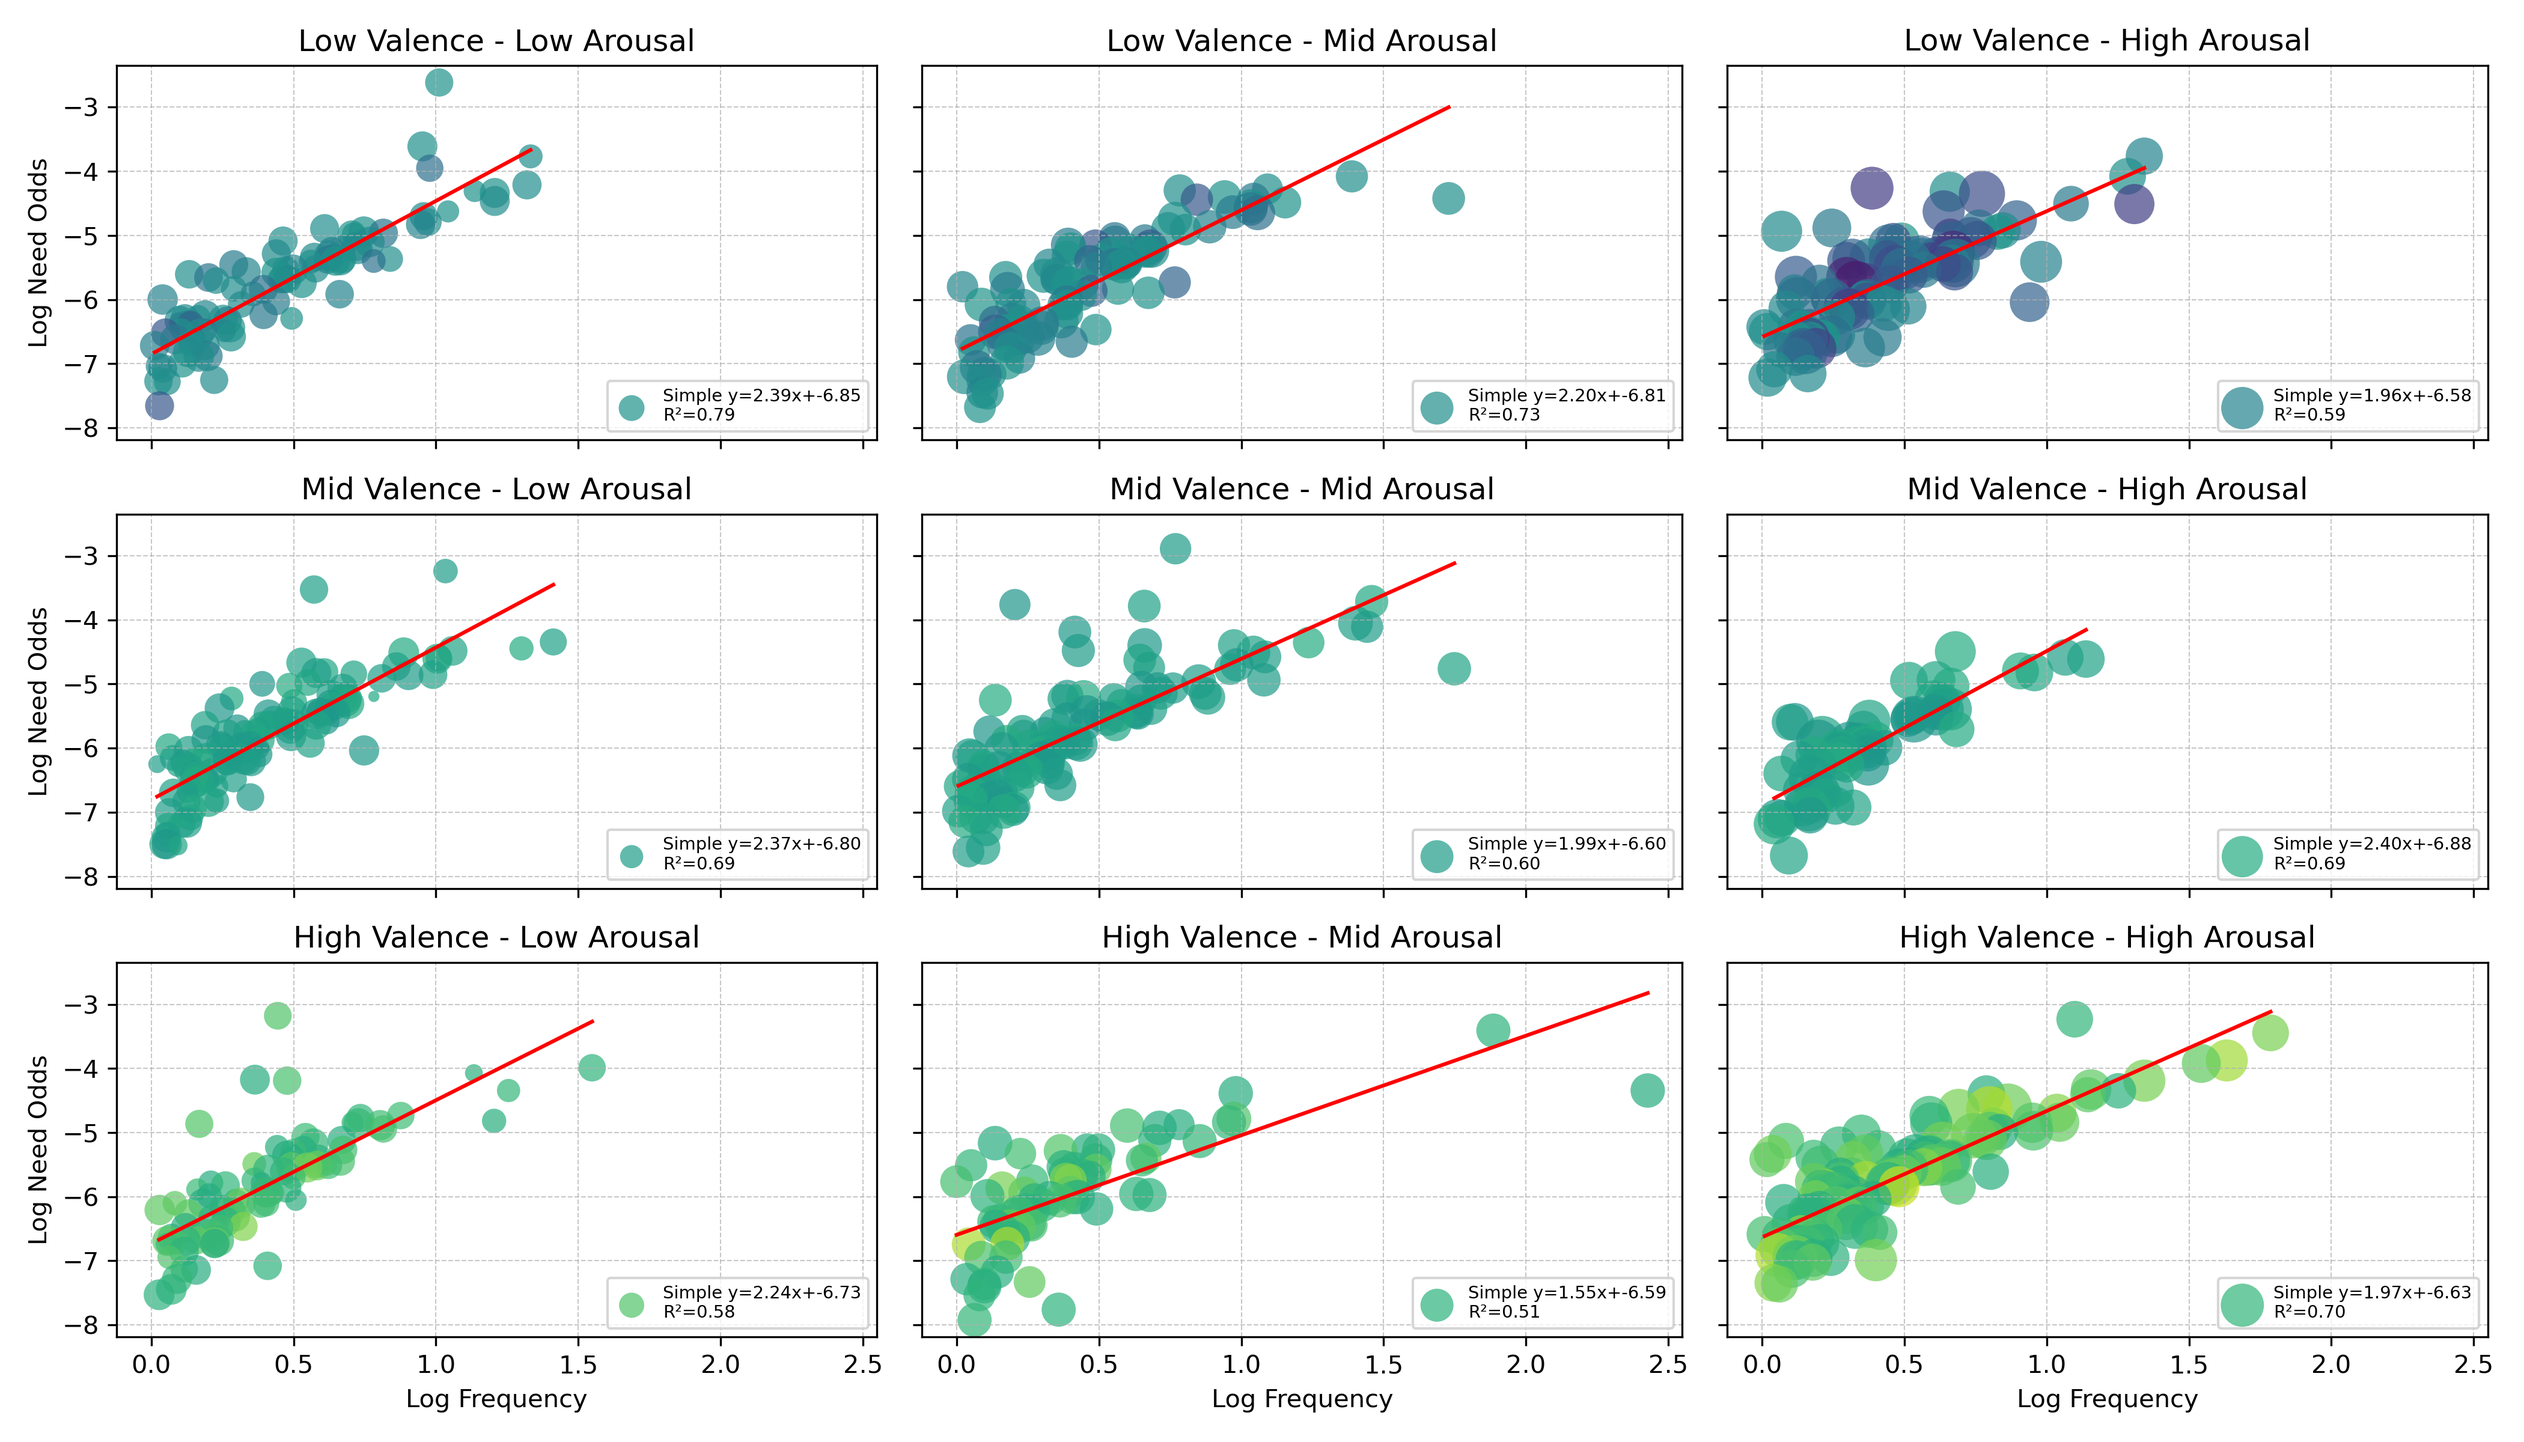
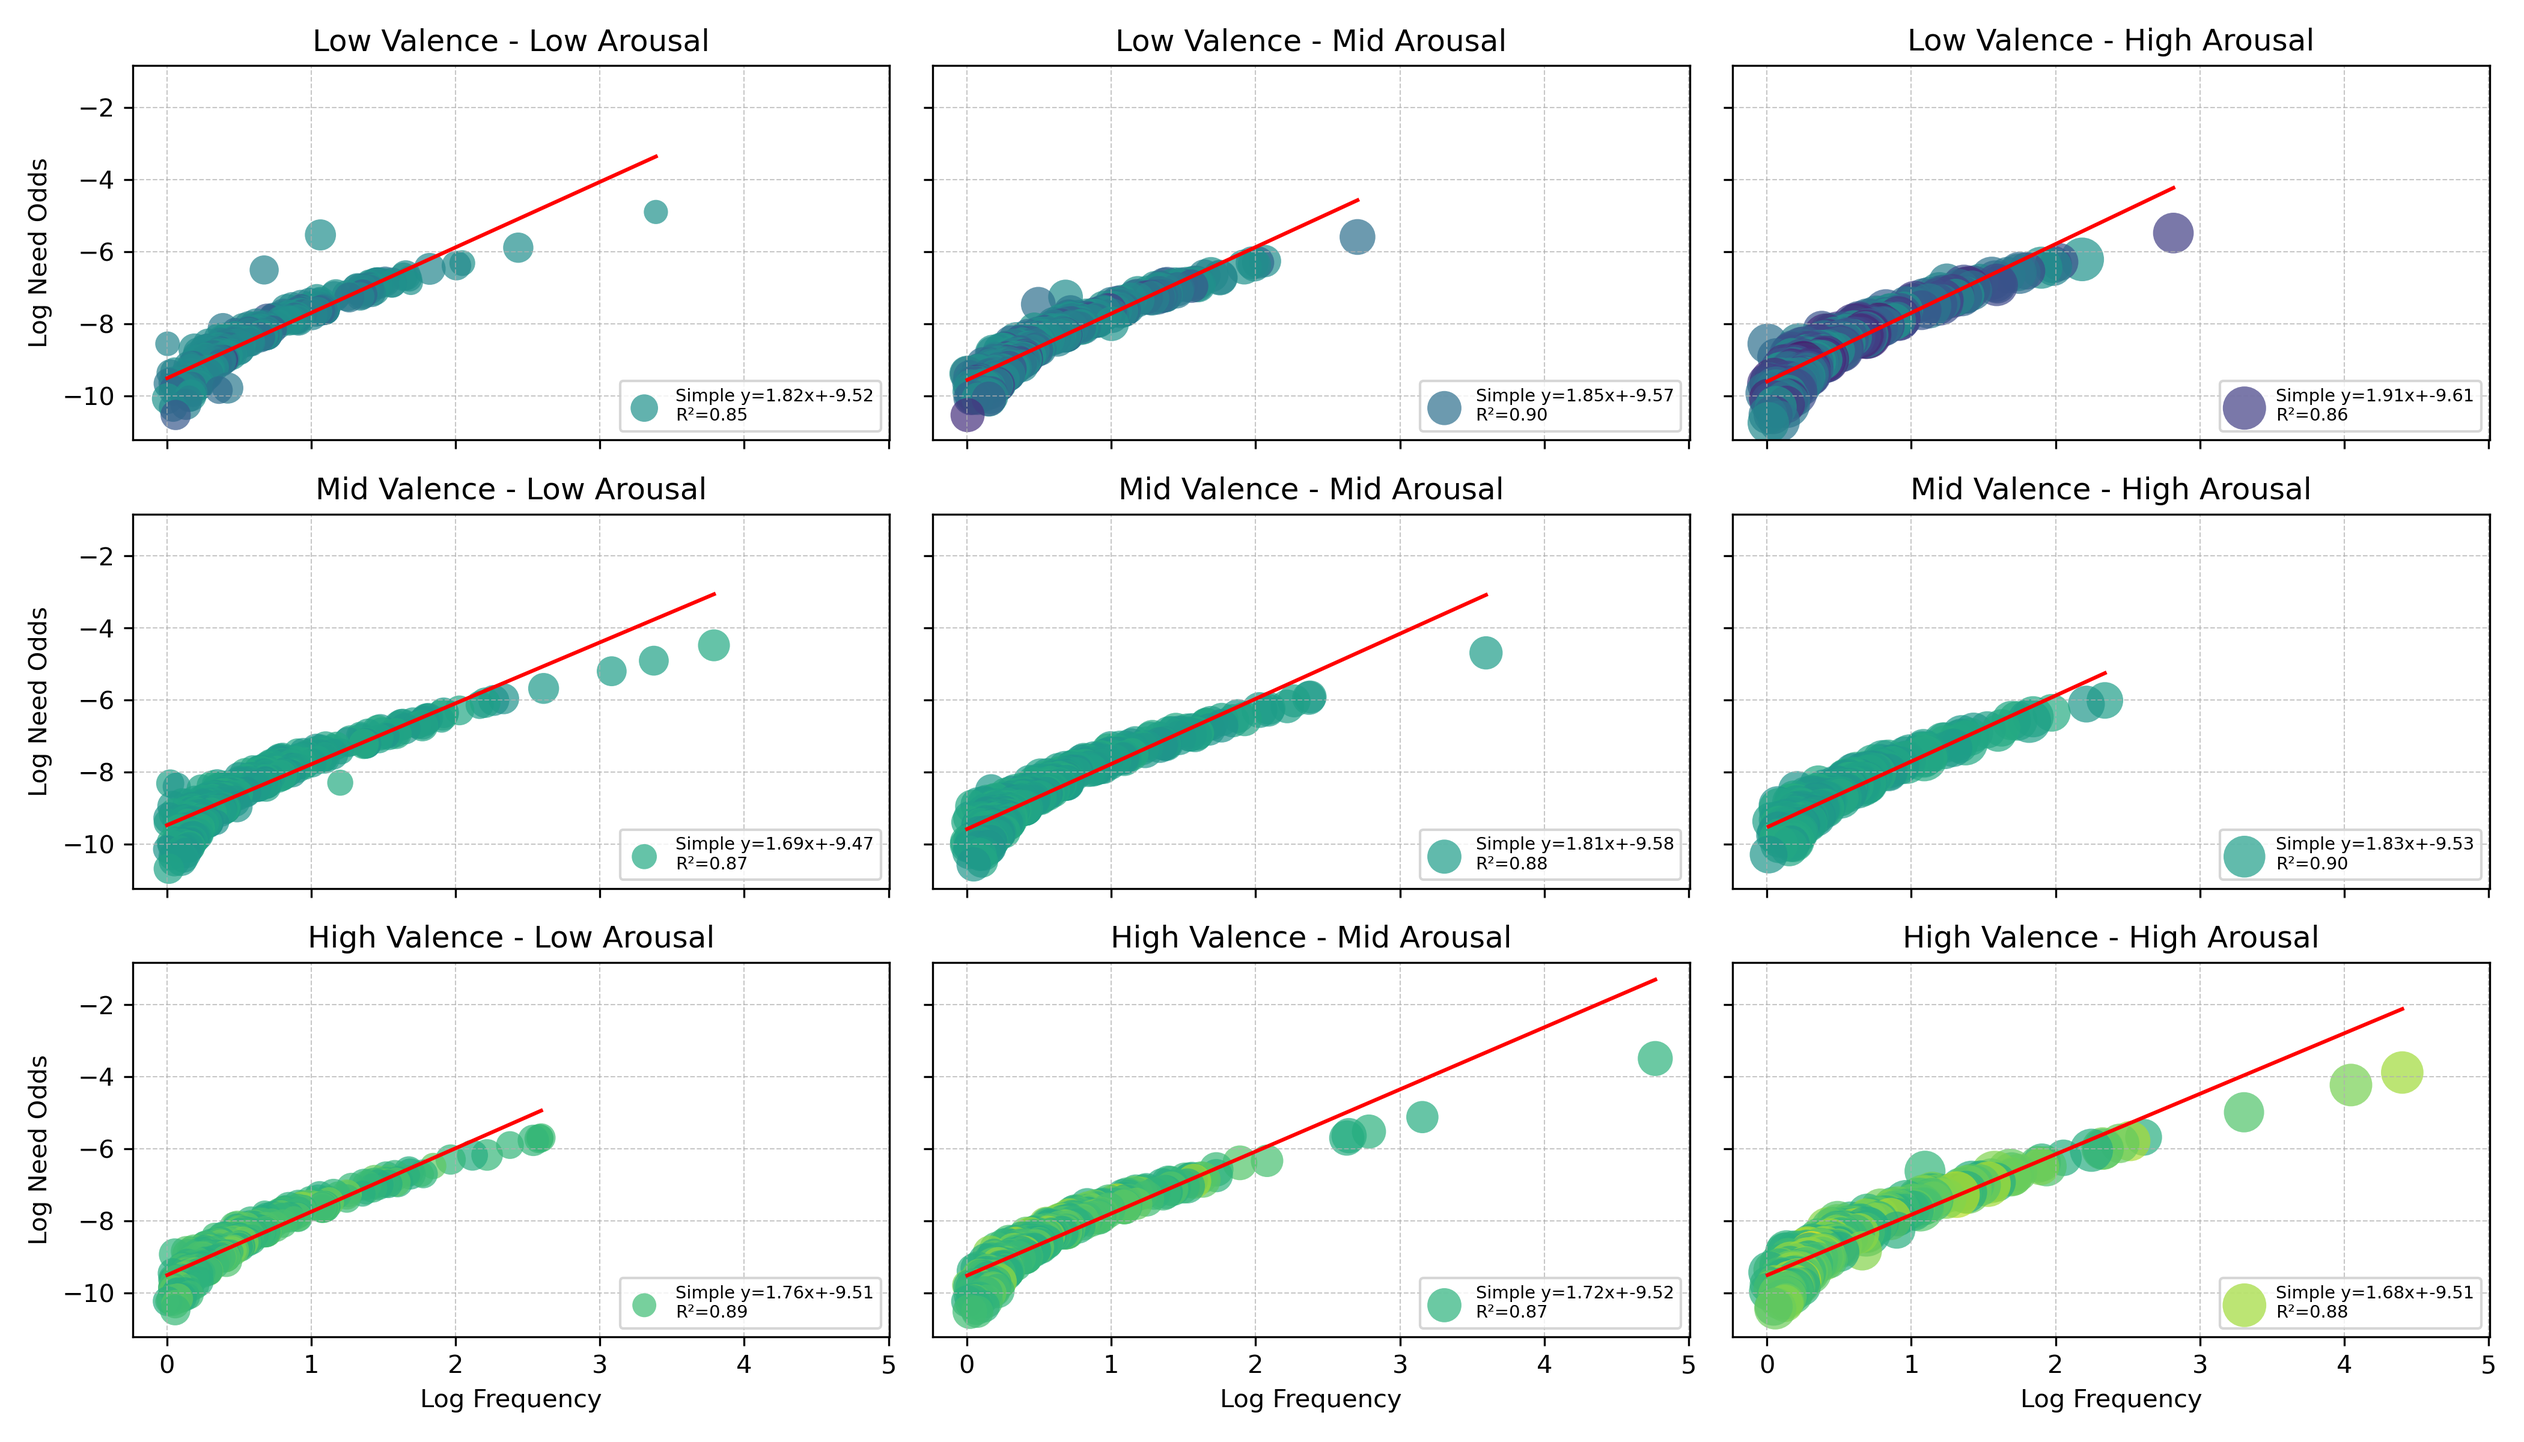
increased wordlen and changed window size to get more data points for regression

diff --git a/scr/merge_with_emotnorm_dataset.py b/scr/merge_with_emotnorm_dataset.py
@@ -1,17 +1,42 @@
 import pandas as pd
 import numpy as np         
 
-word_stats = pd.read_csv('data/processed/word_stats.csv')
+word_stats = pd.read_csv('data/processed/word_stats.csv') # 12132
+print(word_stats.shape)
+word_stats = word_stats[word_stats['need_odds'] > 0] #5529
+print(word_stats.shape)
 recall_df = pd.read_csv('data/processed/recall_df.csv')
-emot_df = pd.read_csv('data/raw/emot_28724.csv')
+emot_df = pd.read_csv('data/raw/emot_28724.csv') #28724
+print(emot_df.shape)
+
 
 emot_df.rename(columns=lambda x: x.lower().strip(), inplace=True)
 emot_df = emot_df[['word', 'valence', 'arousal']]
 df = pd.merge(word_stats, emot_df, on='word', how='left')
-df.to_csv('data/merged/combined_with_emotion.csv', index=False)
+df.to_csv('data/merged/combined_with_emotion.csv', index=False) #5529
+print(df.shape)
 
 # word statistics merged with emotion
-word_stats_emot = df.dropna(subset=['valence', 'arousal'])
+df[df['valence'].isna() | df['arousal'].isna()] #2362 missing both valence and arousal
+word_stats_emot = df.dropna(subset=['valence', 'arousal']) #3167
+print(word_stats_emot.shape)
+
+# Normalization 
+def norm(series):
+    return (series - series.min()) / (series.max() - series.min())
+
+# Word Plot Data 
+word_stats_emot = ( #3167
+    word_stats_emot
+    .assign(
+        log_freq=lambda d: np.log(d['avg_frequency']),
+        log_need=lambda d: np.log(d['need_odds']),
+        arousal_n=lambda d: norm(d['arousal'])
+    )
+) 
+print(word_stats_emot.shape)
+
+word_stats_emot.to_csv("data/merged/word_stats_emot.csv", index=False)
 
 # frequency statistics merged with emotion
 recalled_with_emotion = (
@@ -29,25 +54,9 @@ freq_stats_emot['recall_probability'] = freq_stats_emot['recalls'] / freq_stats_
 freq_stats_emot['need_odds'] = freq_stats_emot['recall_probability'].transform(lambda x: x/(1-x))
 freq_stats_emot.dropna(subset=['mean_valence', 'mean_arousal'], inplace=True)
 
-# Normalization 
-def norm(series):
-    return (series - series.min()) / (series.max() - series.min())
-
-# Word Plot Data 
-word_stats_emot = (
-    word_stats_emot
-    .loc[(word_stats_emot['avg_frequency'] > 0) & (word_stats_emot['need_odds'] > 0)]
-    .assign(
-        log_freq=lambda d: np.log(d['avg_frequency']),
-        log_need=lambda d: np.log(d['need_odds']),
-        arousal_n=lambda d: norm(d['arousal'])
-    )
-)
-
 #  Frequency Plot Data 
 freq_stats_emot = (
     freq_stats_emot
-    .loc[(freq_stats_emot['frequency'] > 0) & (freq_stats_emot['need_odds'] > 0)]
     .assign(
         log_freq=lambda d: np.log(d['frequency']),
         log_need=lambda d: np.log(d['need_odds']),
@@ -55,6 +64,5 @@ freq_stats_emot = (
     )
 )
 
-# print(freq_stats_emot)
-word_stats_emot.to_csv("data/merged/word_stats_emot.csv", index=False)
 freq_stats_emot.to_csv("data/merged/freq_stats_emot.csv", index=False)
+

diff --git a/scr/metrics.py b/scr/metrics.py
@@ -1,29 +1,33 @@
 import pandas as pd
 from collections import Counter
-from data import text_df, WORD_LEN
-from plot import plot_stats
+from data import WORD_LEN, text_df
 
-all_words = ["skip"] * WORD_LEN 
+# text_df = pd.read_csv('data/processed/text_data.csv') 
+
+all_words = ["_skip"] * WORD_LEN 
 for _, row in text_df.iterrows():
     word = row['word']
     for pos in row['positions']:
         all_words[pos] = word
 
-window_size = 400 
+window_size = 4000 
 results = []
+
+all_words = [w for w in all_words if w != "_skip"]
 
 for i in range(len(all_words) - window_size - 1):
     window = all_words[i:i+window_size]
-    next_word = all_words[i+window_size]
+    next_word = all_words[i+window_size ]
     
     # Skip windows with too many placeholder words or if next word is a placeholder
-    if window.count("skip") > window_size/2 or next_word == "skip":
-        continue
+    # if window.count("skip") > window_size/2 or next_word == "skip":
+    #     continue
         
-    window_words = [w for w in window if w != "skip"] # excluding SKIP placeholders
-    
+    # window_words = [w for w in window if w != "skip"] # excluding SKIP placeholders
+    window_words = [w for w in window] # excluding SKIP placeholders
+
     word_counts = Counter(window_words)
-         
+
     for word, freq in word_counts.items():
         is_recalled = 1 if word == next_word else 0
         results.append({
@@ -31,16 +35,23 @@ for i in range(len(all_words) - window_size - 1):
             'window_end': i+window_size-1,
             'word': word,
             'frequency': freq,
-            'is_recalled': is_recalled
+            'is_recalled': is_recalled,
         })
 recall_df = pd.DataFrame(results)
 
+print(recall_df)
+
 #group by word
 word_stats = recall_df.groupby('word')['is_recalled'].agg(
-    recall_probability=('mean'),
-    count=('count'),
-    recalls=('sum') 
+    recall_probability='mean',
+    recalls='sum'
 ).reset_index().sort_values('recall_probability', ascending=False)
+
+# counts = recall_df.groupby('word')['dummy'].agg('sum')
+# word_stats['count'] = counts
+
+print(word_stats.shape)
+# print(word_stats)
 avg_freq = recall_df.groupby('word')['frequency'].mean().reset_index()
 avg_freq = avg_freq.rename(columns={'frequency': 'avg_frequency'})
 word_stats = word_stats.merge(avg_freq, on='word')
@@ -53,9 +64,6 @@ freq_stats = recall_df.groupby('frequency').agg(
 freq_stats['recall_probability'] = freq_stats['recalls'] / freq_stats['total']
 freq_stats['need_odds'] = freq_stats['recall_probability'].transform(lambda x: x/(1-x))
 freq_stats['unique_words'] = recall_df.groupby('frequency')['word'].unique().reset_index(drop=True)
-
-# print(freq_stats)
-plot_stats(word_stats, freq_stats)
 
 # Save the results to CSV files
 word_stats.to_csv('data/processed/word_stats.csv', index=False)

diff --git a/scr/visualizations.py b/scr/visualizations.py
@@ -7,7 +7,6 @@ from scipy.stats import linregress
 word_stats_emot = pd.read_csv('data/merged/word_stats_emot.csv')
 freq_stats_emot = pd.read_csv('data/merged/freq_stats_emot.csv')
 
-
 # Regression Helper 
 def add_regression(ax, x, y, color='red', label_prefix='Simple', threshold=2):
     if len(x) >= threshold and np.unique(x).size > 1:
@@ -17,7 +16,6 @@ def add_regression(ax, x, y, color='red', label_prefix='Simple', threshold=2):
         ax.plot(x_vals, y_vals, color=color, linestyle='-', linewidth=1.5)
         ax.legend([f'{label_prefix} y={slope:.2f}x+{intercept:.2f}\nR²={r_value**2:.2f}'],
                   loc='lower right', fontsize='x-small')
-
 
 # Plot 1 
 fig, axes = plt.subplots(2, 1, figsize=(12, 8), sharey=True)
@@ -130,7 +128,6 @@ for ax in axes[:, 0]:
 plt.tight_layout()
 plt.savefig("output/plots/split_valence_arousal_9plots.png", dpi=300)
 
-
 # Plot 4
 valence_colors = dict(zip(valence_labels, ['blue', 'green', 'red']))
 arousal_sizes = dict(zip(arousal_labels, [50, 200, 500]))
@@ -162,3 +159,4 @@ ax.legend(bbox_to_anchor=(1.05, 1), loc='upper left', title='Groups')
 
 plt.tight_layout()
 plt.savefig("output/plots/combined_3split_summary_plot.png", dpi=300)
+

diff --git a/scr/plot.py b/scr/plot.py
@@ -3,6 +3,10 @@ import seaborn as sns
 import numpy as np
 from scipy.stats import linregress
 import os
+import pandas as pd
+
+word_stats = pd.read_csv('data/processed/word_stats.csv')
+freq_stats = pd.read_csv('data/processed/freq_stats.csv')
 
 def plot_stats(word_stats, freq_stats):
     os.makedirs("output/plots", exist_ok=True)
@@ -42,6 +46,7 @@ def plot_stats(word_stats, freq_stats):
                  'Need Odds vs Frequency (by Word)', 'Avg Frequency', 'Need Odds')
 
     word_stats_log = log_transform(word_stats, 'avg_frequency', 'need_odds')
+
     plot_scatter(axes[0, 1], word_stats_log, 'log_avg_frequency', 'log_need_odds',
                  'Log-Transformed: Need Odds vs Frequency', 'Log Avg Frequency', 'Log Need Odds')
 
@@ -62,3 +67,6 @@ def plot_stats(word_stats, freq_stats):
     plt.tight_layout()
     plt.savefig('output/plots/basic_analysis_plots.png', dpi=300, bbox_inches='tight')
     plt.show()
+
+
+plot_stats(word_stats, freq_stats)

diff --git a/scr/data.py b/scr/data.py
@@ -7,7 +7,7 @@ nltk.download('reuters', quiet=True)
 nltk.download('stopwords', quiet=True)
 
 # Load words from the first Reuters file
-WORD_LEN = 50000
+WORD_LEN = 300000
 words = [word.lower() for word in reuters.words(reuters.fileids())[:WORD_LEN]]
 
 ACRONYM_MAP = {
@@ -27,7 +27,7 @@ filtered_words = []
 
 words_positions = defaultdict(list)
 for idx, word in enumerate(words):
-    if word.isalpha() and word not in stop_words:
+    if word.isalpha() and not word in stop_words:
         filtered_words.append(word)
         words_positions[word].append(idx)
 
